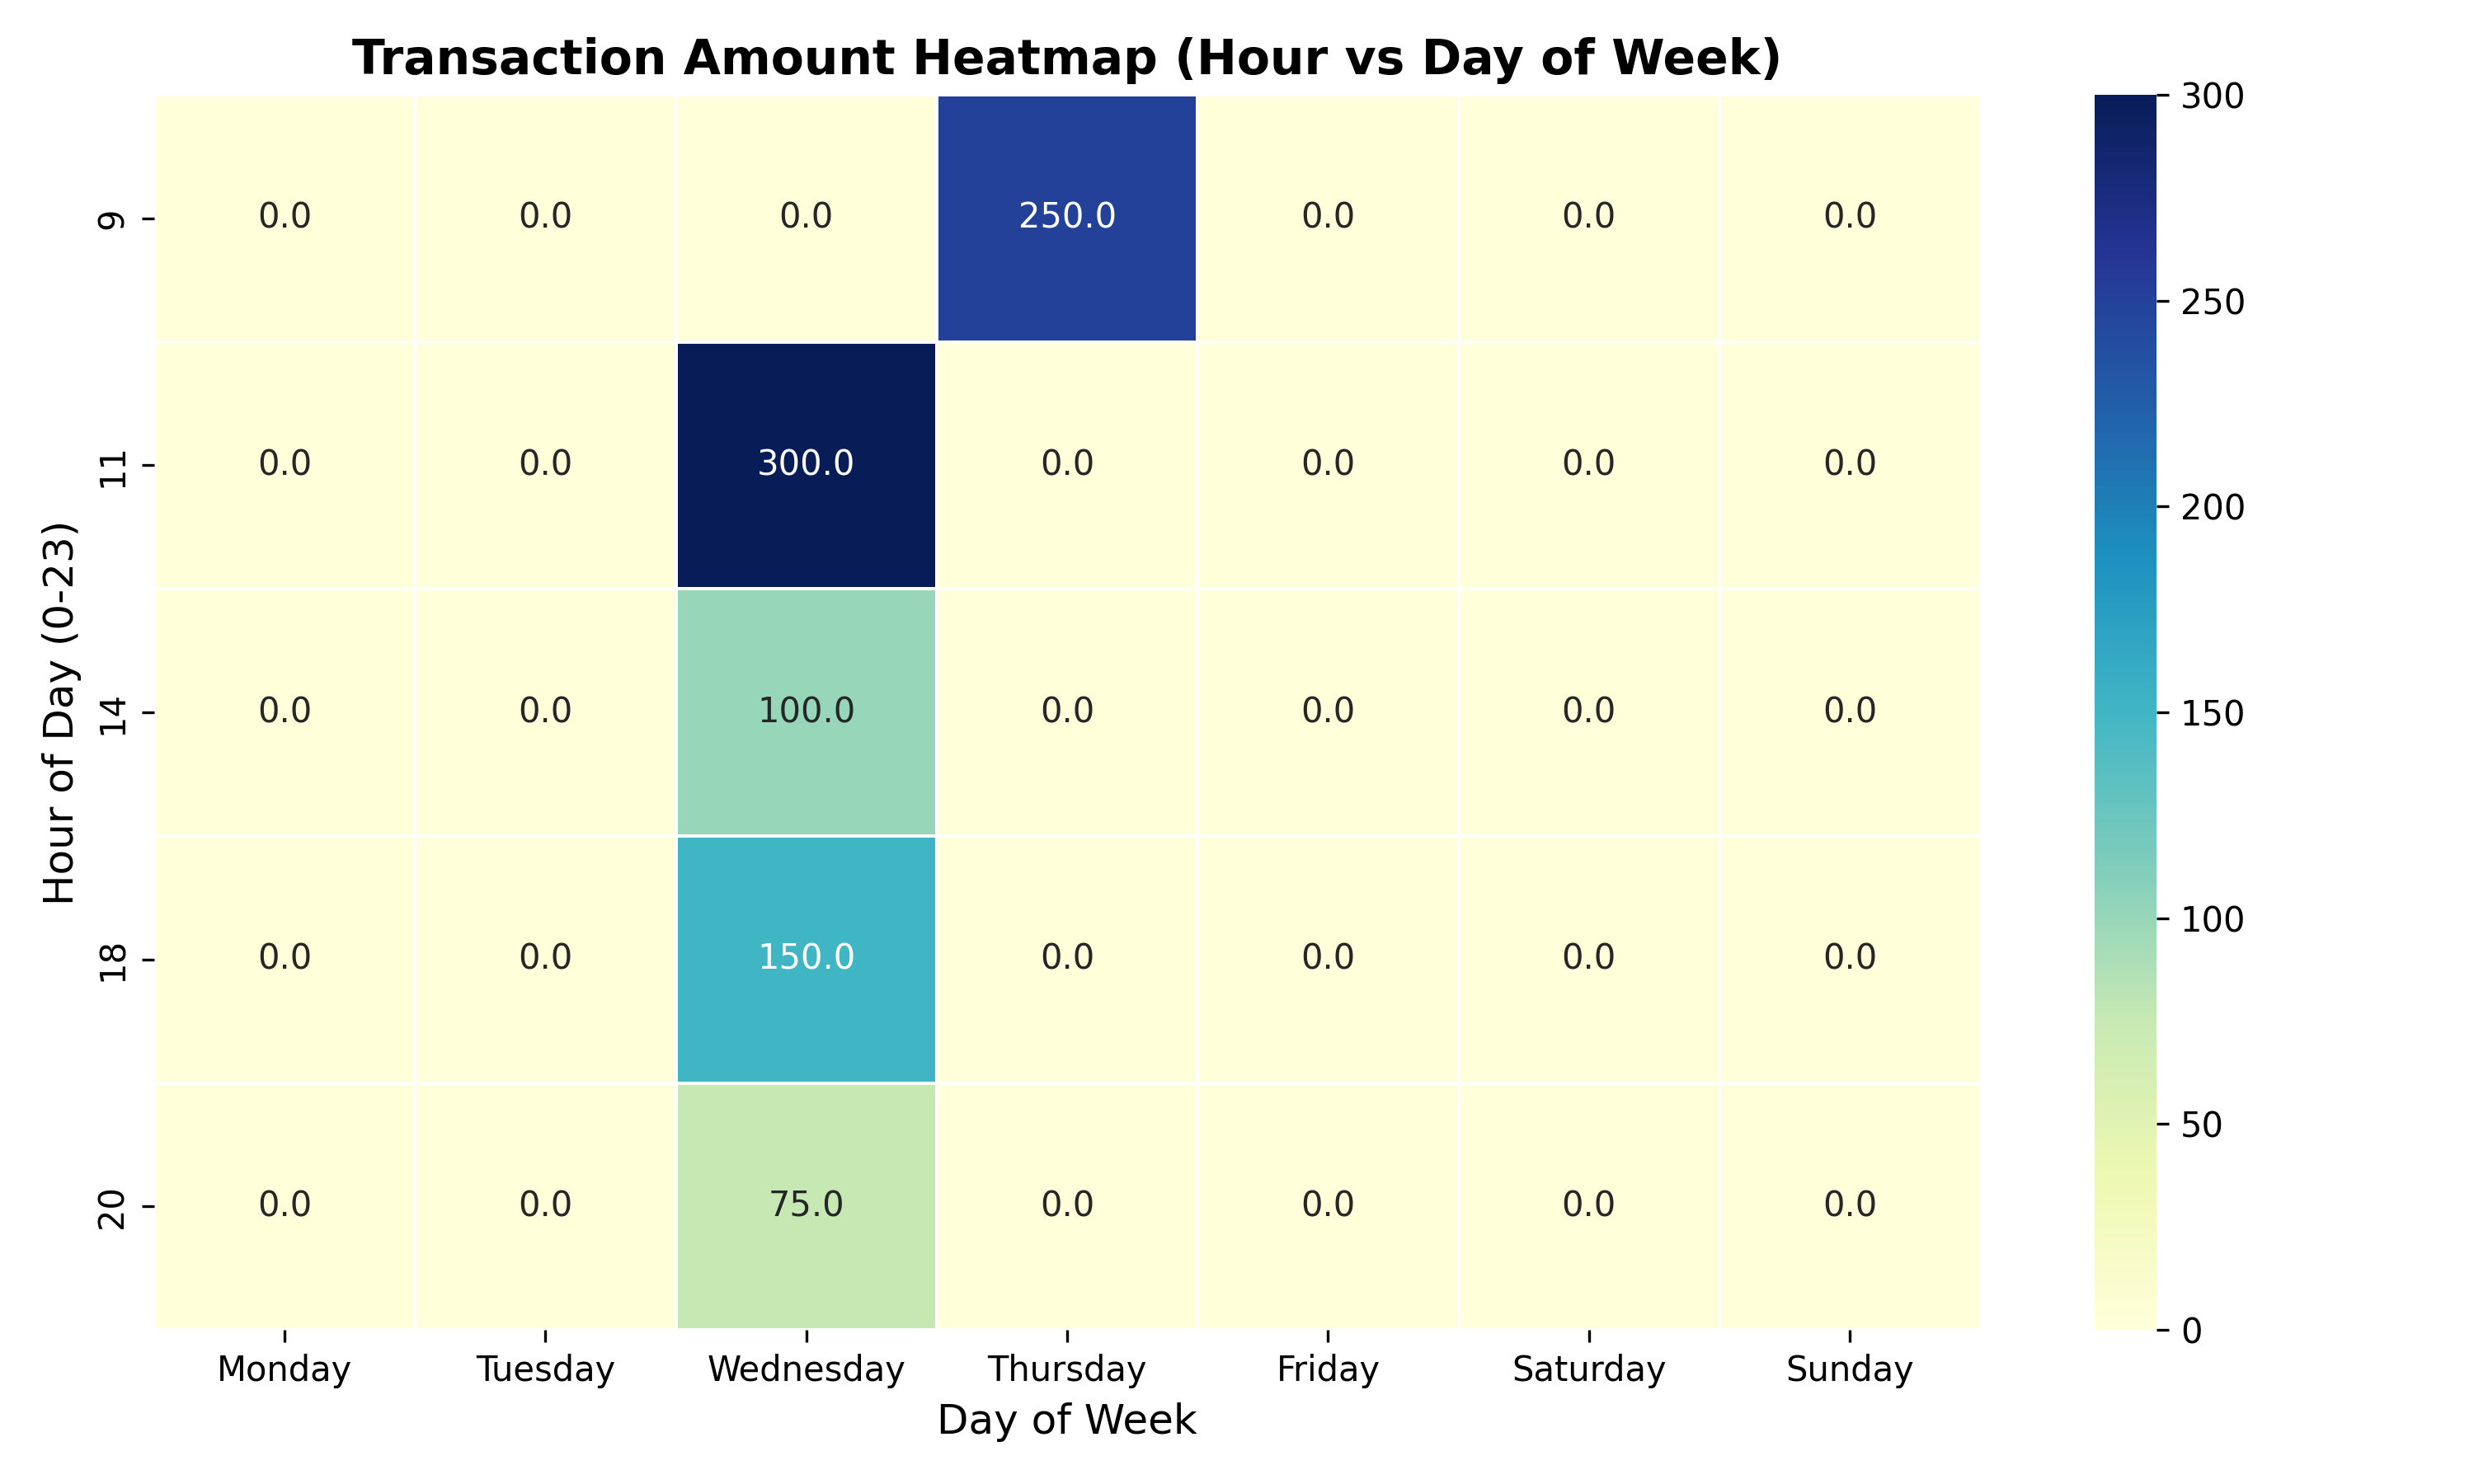
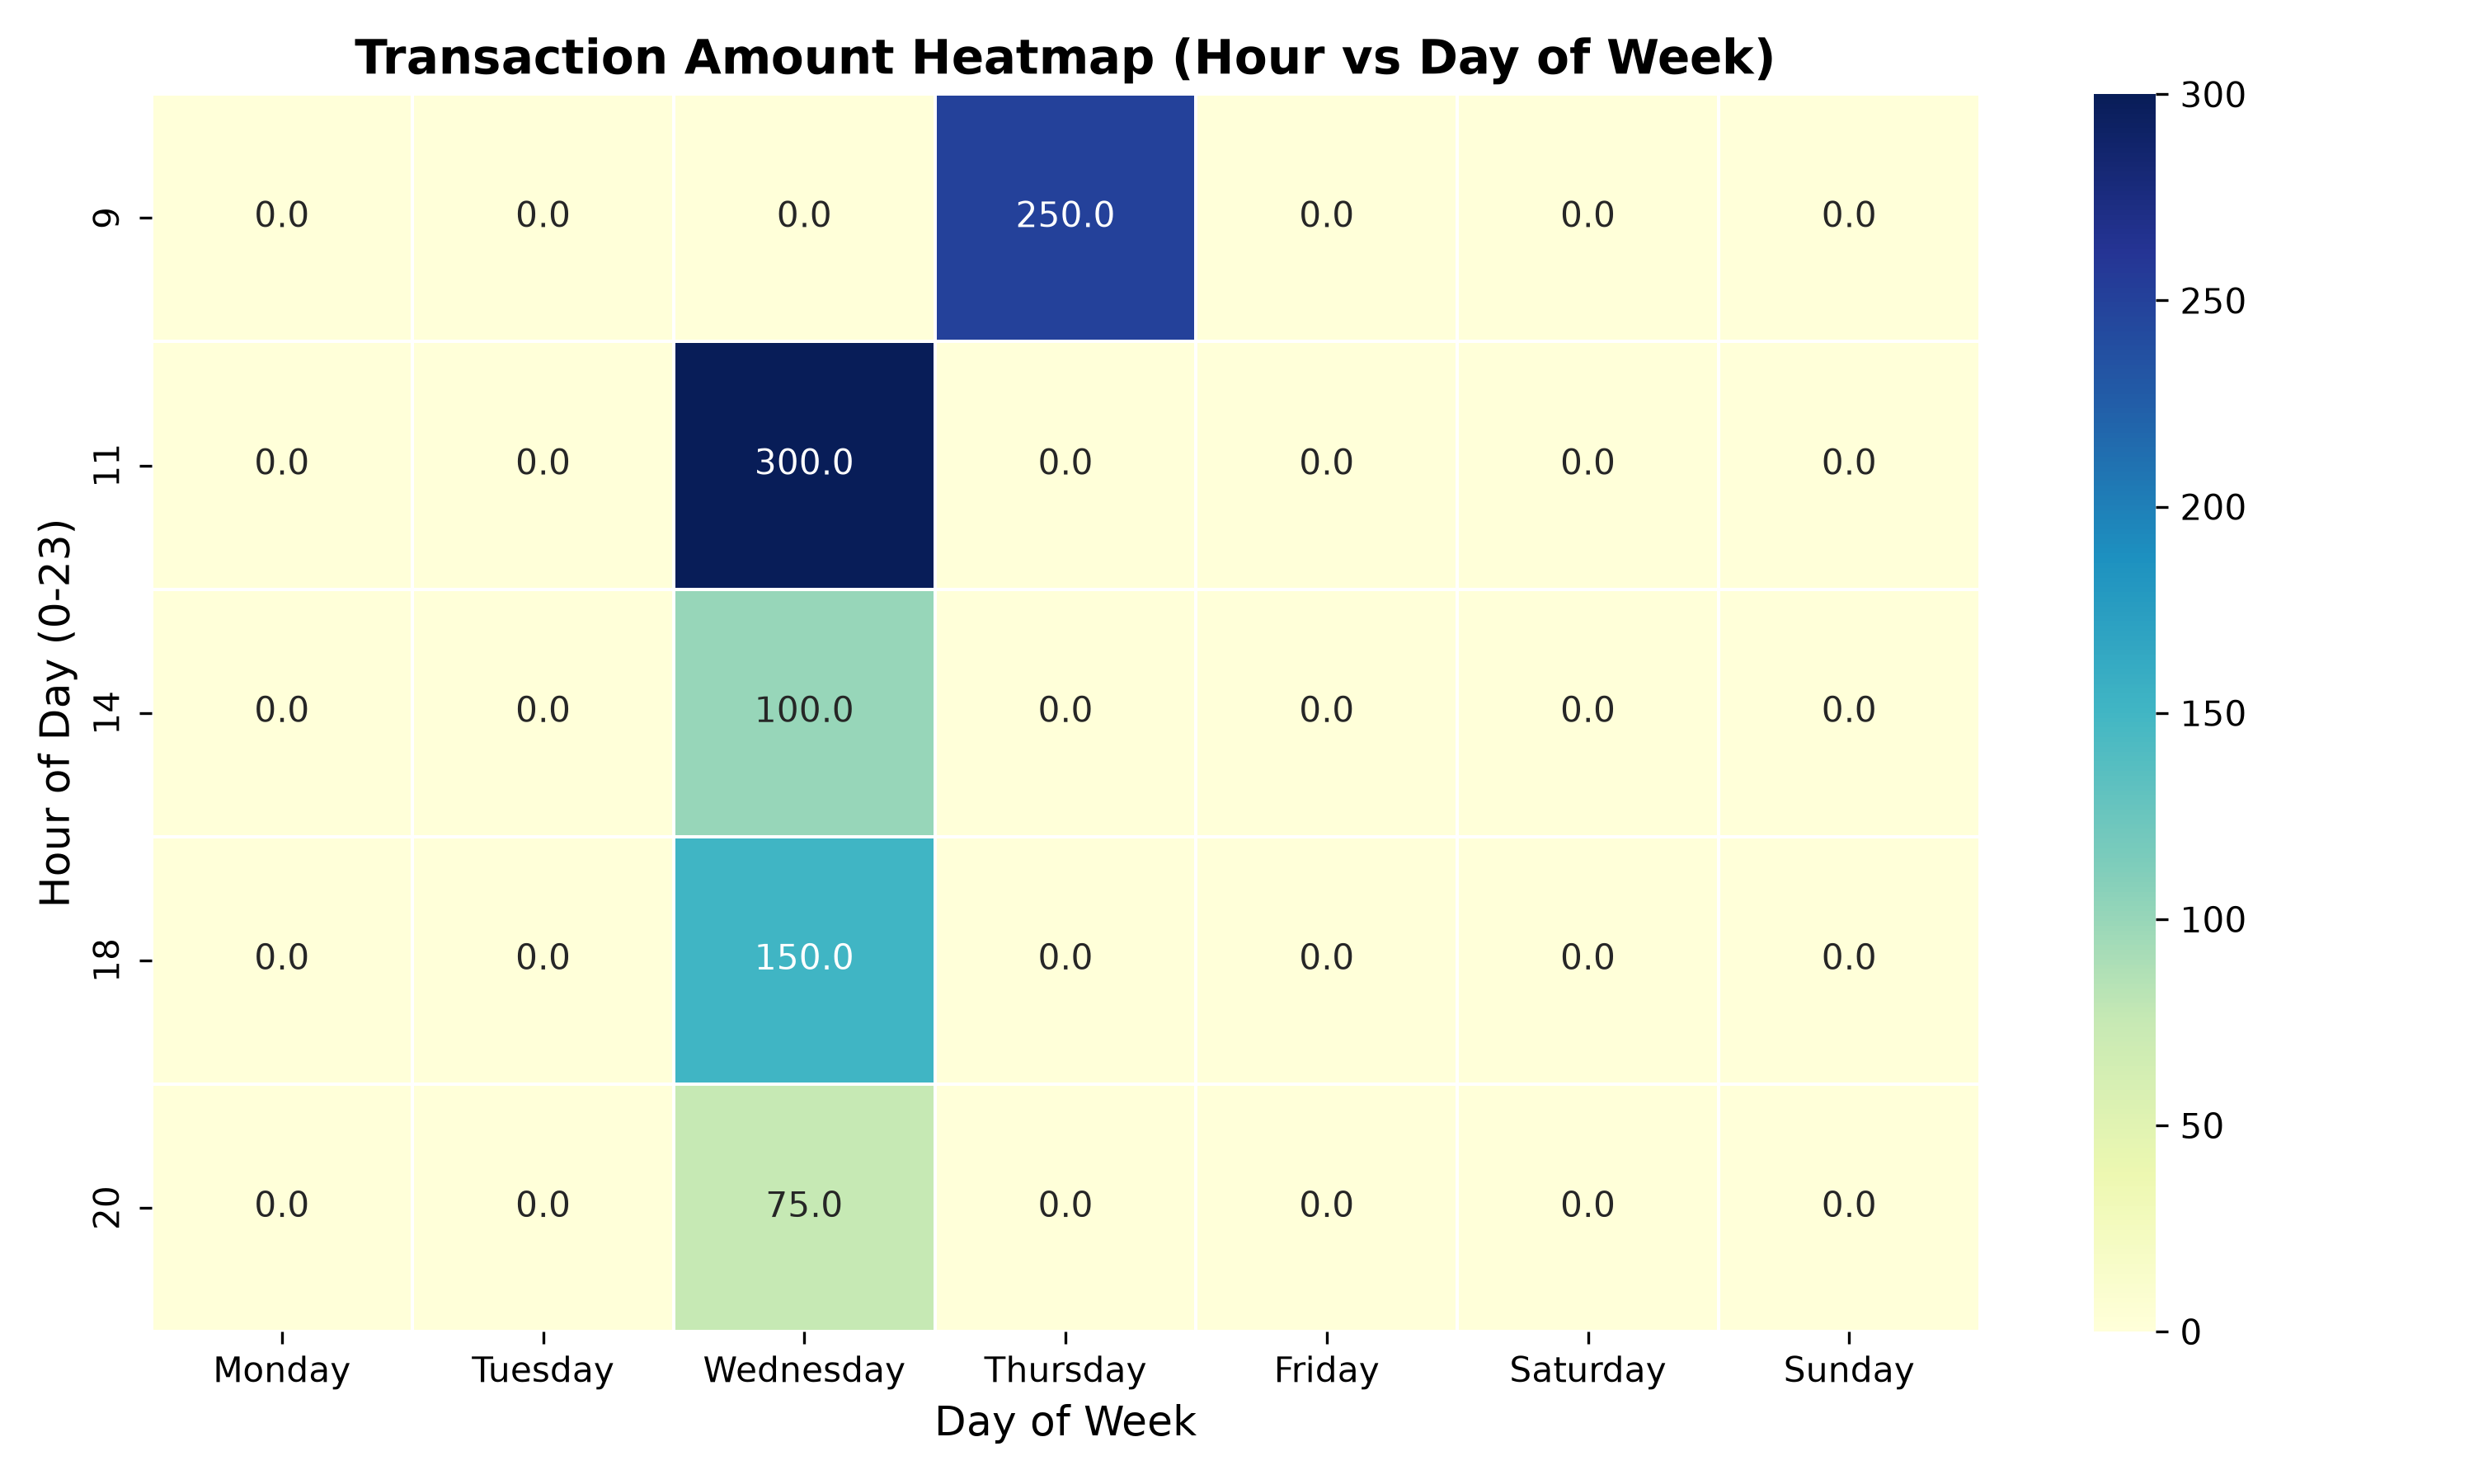
completed

diff --git a/scripts/customer_feature_engineering.py b/scripts/customer_feature_engineering.py
@@ -1,0 +1,157 @@
+"""
+Customer Feature Engineering Pipeline script.
+
+This script implements customer feature engineering tasks:
+1. Aggregating transaction-level data to the customer level.
+2. Computing ratio features (transactions_per_month, avg_spend_per_transaction, lifetime_value_per_month).
+3. Equal-width binning for engagement rate.
+4. Quantile binning for customer spending.
+5. Computing composite RFM scores.
+6. Validating engineered features.
+"""
+
+import os
+import pandas as pd
+import numpy as np
+
+# Path definitions
+CUSTOMERS_PATH = "data/raw/customers_large.csv"
+ORDERS_PATH = "data/raw/orders_large.csv"
+PROCESSED_PATH = "data/processed/customer_features.csv"
+
+
+def load_and_aggregate_data(customers_path: str = CUSTOMERS_PATH, orders_path: str = ORDERS_PATH) -> pd.DataFrame:
+    """
+    Load raw customers and orders data, and aggregate to customer level.
+    """
+    if not os.path.exists(customers_path):
+        raise FileNotFoundError(f"Customers data not found at: {customers_path}")
+    if not os.path.exists(orders_path):
+        raise FileNotFoundError(f"Orders data not found at: {orders_path}")
+
+    # Load datasets
+    df_customers = pd.read_csv(customers_path)
+    df_orders = pd.read_csv(orders_path)
+
+    # Cast dates to datetime objects
+    df_customers['signup_date'] = pd.to_datetime(df_customers['signup_date'])
+    df_orders['order_date'] = pd.to_datetime(df_orders['order_date'])
+
+    # Determine reference date: max order_date + 1 day
+    reference_date = df_orders['order_date'].max() + pd.Timedelta(days=1)
+    print(f"[PREPARATION] Reference Date: {reference_date.strftime('%Y-%m-%d')}")
+
+    # Aggregate orders per customer
+    orders_agg = df_orders.groupby('customer_id').agg(
+        purchase_count=('order_id', 'count'),
+        total_spent=('amount', 'sum'),
+        last_purchase_date=('order_date', 'max')
+    ).reset_index()
+
+    # Merge customers with aggregated order statistics
+    df = pd.merge(df_customers, orders_agg, on='customer_id', how='left')
+
+    # Fill NaNs for customers with 0 transactions to prevent missing values in basic fields
+    df['purchase_count'] = df['purchase_count'].fillna(0).astype(int)
+    df['total_transactions'] = df['purchase_count']
+    df['total_spent'] = df['total_spent'].fillna(0.0)
+
+    # Calculate days as customer, clip at 1 day to prevent division by zero
+    df['days_as_customer'] = (reference_date - df['signup_date']).dt.days.clip(lower=1)
+
+    # Calculate days since last purchase (recency)
+    # If a customer has no transactions, fill last purchase date with signup_date (conservative assumption)
+    df['last_purchase_date'] = df['last_purchase_date'].fillna(df['signup_date'])
+    df['days_since_last_purchase'] = (reference_date - df['last_purchase_date']).dt.days.clip(lower=1)
+
+    print(f"[PREPARATION] Loaded and aggregated {len(df)} customers.")
+    return df
+
+
+def engineer_features(df: pd.DataFrame) -> pd.DataFrame:
+    """
+    Run Tasks 1 to 5 to engineer customer business features.
+    """
+    df_transformed = df.copy()
+
+    # Filter out customers with 0 transactions to guarantee no NaNs in RFM / ratio scoring
+    # (Since RFM and average spend are only mathematically valid for active customers)
+    df_transformed = df_transformed[df_transformed['total_transactions'] > 0].copy()
+
+    # Task 1: Compute Ratio Features (1 mark)
+    print("\n--- Task 1: Compute Ratio Features ---")
+    df_transformed['transactions_per_month'] = df_transformed['total_transactions'] / (df_transformed['days_as_customer'] / 30)
+    df_transformed['avg_spend_per_transaction'] = df_transformed['total_spent'] / df_transformed['total_transactions']
+    df_transformed['lifetime_value_per_month'] = df_transformed['total_spent'] / (df_transformed['days_as_customer'] / 30)
+
+    print("Task 1 Output (Summary Statistics):")
+    print(df_transformed[['transactions_per_month', 'avg_spend_per_transaction']].describe())
+
+    # Task 2: Binning with Equal-Width Bins (1 mark)
+    print("\n--- Task 2: Binning with Equal-Width Bins ---")
+    df_transformed['engagement_tier'] = pd.cut(
+        df_transformed['transactions_per_month'],
+        bins=[0, 2, 10, float('inf')],
+        labels=['low', 'medium', 'high']
+    )
+
+    print("Task 2 Output (Engagement Tier Counts):")
+    print(df_transformed['engagement_tier'].value_counts())
+
+    # Task 3: Binning with Quantiles (1 mark)
+    print("\n--- Task 3: Binning with Quantiles ---")
+    df_transformed['spend_quartile'] = pd.qcut(
+        df_transformed['total_spent'],
+        q=4,
+        labels=['Q1', 'Q2', 'Q3', 'Q4']
+    )
+
+    print("Task 3 Output (Spend Quartile Counts):")
+    print(df_transformed['spend_quartile'].value_counts())
+
+    # Task 4: Composite Score (1 mark)
+    print("\n--- Task 4: Composite Score ---")
+    df_transformed['recency_score'] = pd.qcut(df_transformed['days_since_last_purchase'].rank(method='first'), q=5, labels=[5,4,3,2,1])
+    df_transformed['frequency_score'] = pd.qcut(df_transformed['purchase_count'].rank(method='first'), q=5, labels=[1,2,3,4,5])
+    df_transformed['monetary_score'] = pd.qcut(df_transformed['total_spent'].rank(method='first'), q=5, labels=[1,2,3,4,5])
+
+    df_transformed['rfm_score'] = (df_transformed['recency_score'].astype(int) + 
+                       df_transformed['frequency_score'].astype(int) + 
+                       df_transformed['monetary_score'].astype(int))
+
+    print("Task 4 Output (RFM Scores computed successfully)")
+
+    # Task 5: Feature Validation (1 mark)
+    print("\n--- Task 5: Feature Validation ---")
+    # Check ranges are sensible
+    print(f"Engagement tier distribution:\n{df_transformed['engagement_tier'].value_counts()}")
+    print(f"RFM score range: {df_transformed['rfm_score'].min()}-{df_transformed['rfm_score'].max()}")
+
+    # Ensure no NaNs introduced
+    missing_counts = df_transformed[['engagement_tier', 'spend_quartile', 'rfm_score']].isna().sum()
+    print(f"Missing values:\n{missing_counts}")
+    assert missing_counts.sum() == 0, f"Error: NaNs introduced during feature engineering!"
+
+    return df_transformed
+
+
+def main():
+    print("=" * 60)
+    print("STARTING CUSTOMER FEATURE ENGINEERING PIPELINE")
+    print("=" * 60)
+
+    # 1. Load and aggregate
+    df_agg = load_and_aggregate_data()
+
+    # 2. Engineer features
+    df_features = engineer_features(df_agg)
+
+    # 3. Output results
+    os.makedirs(os.path.dirname(PROCESSED_PATH), exist_ok=True)
+    df_features.to_csv(PROCESSED_PATH, index=False)
+    print(f"\n[SUCCESS] Feature engineering complete. Saved to: {PROCESSED_PATH}")
+    print("=" * 60)
+
+
+if __name__ == "__main__":
+    main()

diff --git a/tests/test_customer_feature_engineering.py b/tests/test_customer_feature_engineering.py
@@ -1,0 +1,91 @@
+"""
+Unit tests for Customer Feature Engineering Pipeline.
+"""
+
+import pytest
+import pandas as pd
+import numpy as np
+
+from scripts.customer_feature_engineering import (
+    engineer_features,
+)
+
+
[email redacted]
+def sample_customer_df():
+    """Provides a sample customer DataFrame for feature engineering tests."""
+    return pd.DataFrame({
+        'customer_id': [1, 2, 3, 4, 5],
+        'name': ['Alice', 'Bob', 'Carol', 'Dan', 'Eve'],
+        'email': ['[email redacted]', '[email redacted]', '[email redacted]', '[email redacted]', '[email redacted]'],
+        'signup_date': pd.to_datetime(['2025-01-01', '2025-01-05', '2025-01-10', '2025-01-15', '2025-01-20']),
+        'purchase_count': [1, 10, 5, 20, 2],
+        'total_transactions': [1, 10, 5, 20, 2],
+        'total_spent': [50.0, 500.0, 250.0, 1000.0, 100.0],
+        'days_as_customer': [35, 31, 26, 21, 16],
+        'days_since_last_purchase': [10, 1, 5, 2, 8]
+    })
+
+
+def test_ratio_features(sample_customer_df):
+    """Test Task 1: Ratio calculations are correct."""
+    df_feat = engineer_features(sample_customer_df)
+    
+    # Assert columns exist
+    assert 'transactions_per_month' in df_feat.columns
+    assert 'avg_spend_per_transaction' in df_feat.columns
+    assert 'lifetime_value_per_month' in df_feat.columns
+
+    # Alice (customer_id 1):
+    # transactions_per_month = 1 / (35 / 30) = 0.85714
+    # avg_spend_per_transaction = 50 / 1 = 50.0
+    # lifetime_value_per_month = 50 / (35 / 30) = 42.85714
+    assert np.isclose(df_feat.loc[df_feat['customer_id'] == 1, 'transactions_per_month'].iloc[0], 1.0 / (35.0 / 30.0))
+    assert np.isclose(df_feat.loc[df_feat['customer_id'] == 1, 'avg_spend_per_transaction'].iloc[0], 50.0)
+    assert np.isclose(df_feat.loc[df_feat['customer_id'] == 1, 'lifetime_value_per_month'].iloc[0], 50.0 / (35.0 / 30.0))
+
+
+def test_equal_width_binning(sample_customer_df):
+    """Test Task 2: Equal width binning logic for engagement tier."""
+    df_feat = engineer_features(sample_customer_df)
+    
+    assert 'engagement_tier' in df_feat.columns
+    # Check that tier is categorized into low, medium, or high
+    # Alice: transactions_per_month = 0.857 (<= 2) -> 'low'
+    # Bob: transactions_per_month = 10 / (31/30) = 9.67 (<= 10) -> 'medium'
+    # Dan: transactions_per_month = 20 / (21/30) = 28.57 (> 10) -> 'high'
+    assert df_feat.loc[df_feat['customer_id'] == 1, 'engagement_tier'].iloc[0] == 'low'
+    assert df_feat.loc[df_feat['customer_id'] == 2, 'engagement_tier'].iloc[0] == 'medium'
+    assert df_feat.loc[df_feat['customer_id'] == 4, 'engagement_tier'].iloc[0] == 'high'
+
+
+def test_quantile_binning(sample_customer_df):
+    """Test Task 3: Quantile-based binning for total spent."""
+    df_feat = engineer_features(sample_customer_df)
+    
+    assert 'spend_quartile' in df_feat.columns
+    # Check category codes and labels are assigned correctly
+    assert set(df_feat['spend_quartile'].unique()) == {'Q1', 'Q2', 'Q3', 'Q4'}
+
+
+def test_composite_score(sample_customer_df):
+    """Test Task 4: RFM composite scores are computed and ranges are valid."""
+    df_feat = engineer_features(sample_customer_df)
+    
+    assert 'recency_score' in df_feat.columns
+    assert 'frequency_score' in df_feat.columns
+    assert 'monetary_score' in df_feat.columns
+    assert 'rfm_score' in df_feat.columns
+
+    # Verify RFM components can be cast to int and range is correct
+    assert (df_feat['rfm_score'] >= 3).all()
+    assert (df_feat['rfm_score'] <= 15).all()
+
+
+def test_feature_validation_no_nans(sample_customer_df):
+    """Test Task 5: No NaNs are introduced in finalized feature columns."""
+    df_feat = engineer_features(sample_customer_df)
+    
+    assert df_feat['engagement_tier'].isna().sum() == 0
+    assert df_feat['spend_quartile'].isna().sum() == 0
+    assert df_feat['rfm_score'].isna().sum() == 0

diff --git a/scripts/detect_outliers.py b/scripts/detect_outliers.py
@@ -24,7 +24,8 @@ def detect_zscore_outliers(df, column, threshold=3):
     Returns: Tuple of (outlier_boolean_mask, z_scores)
     """
     z_scores = np.abs(stats.zscore(df[column]))
-    outliers = z_scores > threshold
+    outliers = pd.Series(z_scores > threshold, index=df.index)
+    z_scores = pd.Series(z_scores, index=df.index)
     return outliers, z_scores
 
 def detect_iqr_outliers(df, column, factor=1.5):

diff --git a/scripts/join_validation.py b/scripts/join_validation.py
@@ -35,7 +35,7 @@ def generate_sample_data(customers_path=CUSTOMERS_PATH, orders_path=ORDERS_PATH)
     df_orders = pd.DataFrame({
         'order_id': np.arange(10001, 15001),
         'customer_id': order_cust_ids,
-        'order_date': pd.date_range(start='2025-02-01', periods=5000, freq='T').strftime('%Y-%m-%d'),
+        'order_date': pd.date_range(start='2025-02-01', periods=5000, freq='min').strftime('%Y-%m-%d'),
         'amount': np.round(np.random.uniform(10.0, 500.0, size=5000), 2)
     })
     df_orders.to_csv(orders_path, index=False)